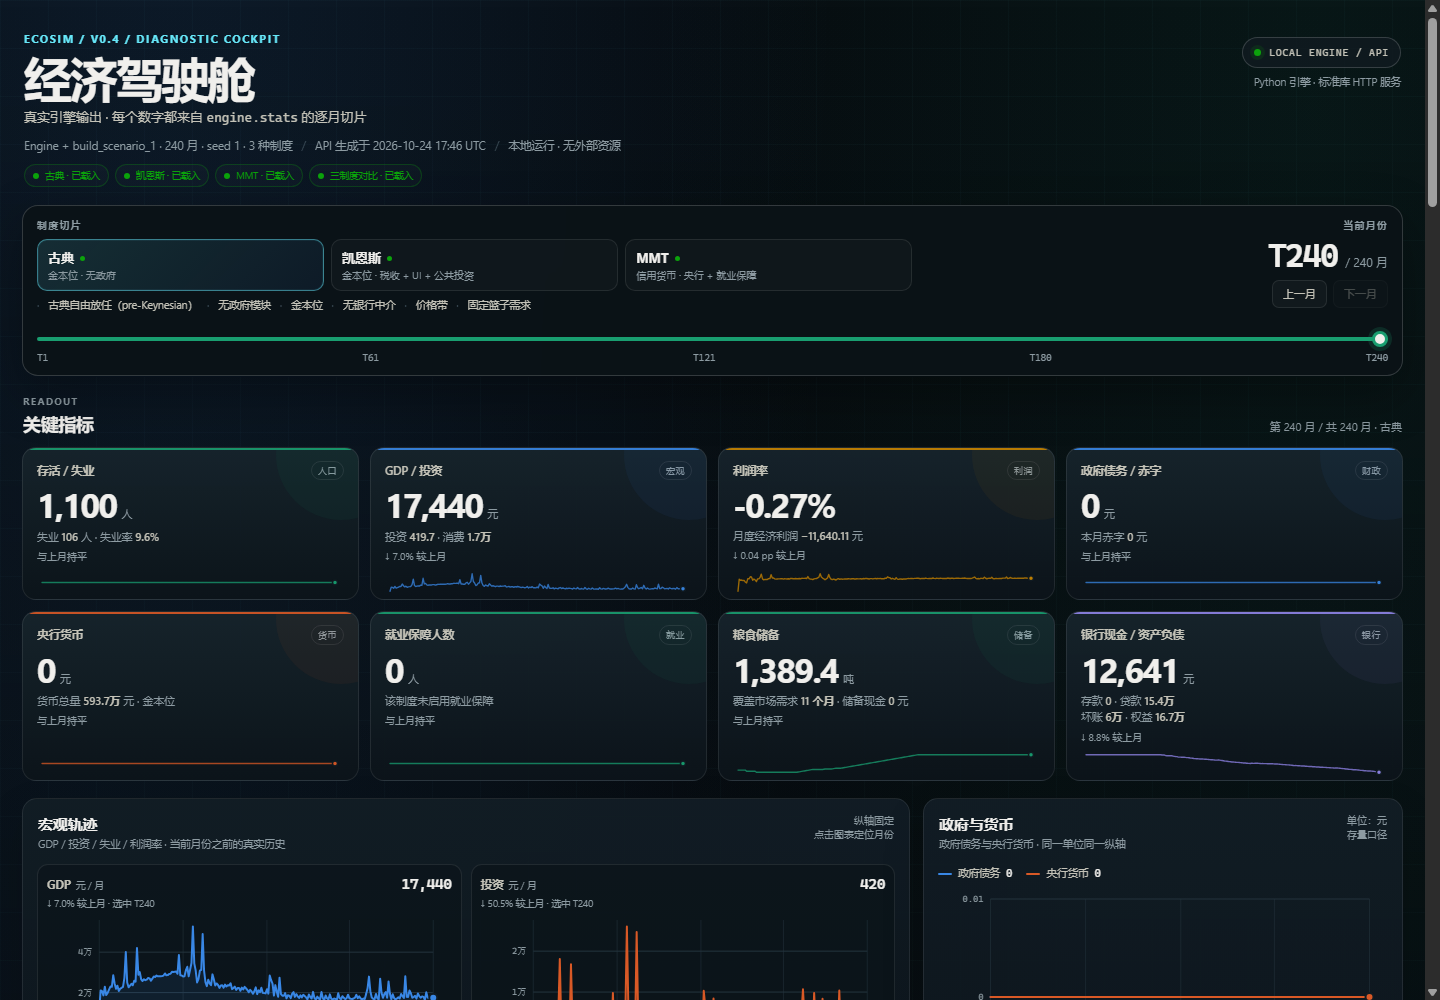
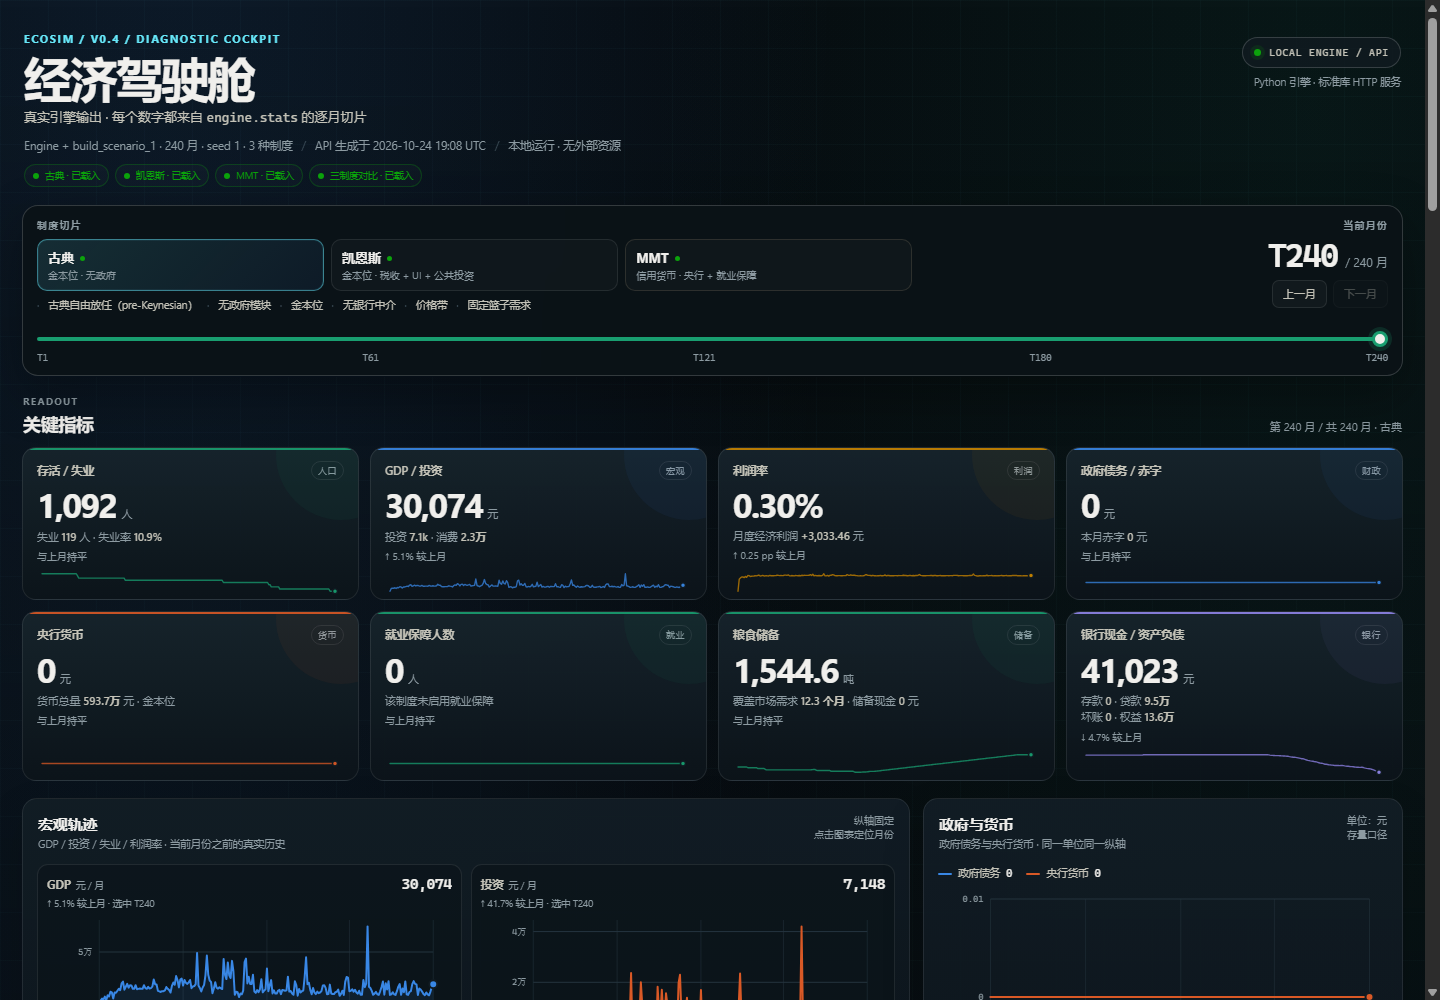
feat: V0.4.2 利润率修正与驾驶舱更新
- 计划分母改用熟练度调整后的有效产能，修复过度生产/负利润率
- 服务自雇工资/payout 重复计入修复；利润率改为资本主义部门口径
- 240 月：古典利润率 +0.30%，Keynesian -0.01%，MMT +0.01%
- 驾驶舱显示 all_profit_rate/household_profit 等诊断字段与最终截图
- 版本 0.4.2

diff --git a/scripts/serve_dashboard.py b/scripts/serve_dashboard.py
@@ -44,7 +44,7 @@ from ecosim.scenarios import (  # noqa: E402
     build_scenario_1,
 )
 
-DASHBOARD_VERSION = "0.4.0"
+DASHBOARD_VERSION = "0.4.2"
 DEFAULT_MONTHS = 240
 DEFAULT_SEED = 1
 MAX_MONTHS = 1200
@@ -108,6 +108,11 @@ SCALAR_FIELDS = (
     "consumption",
     "investment",
     "profit_rate",
+    "all_profit_rate",
+    "capitalist_profit",
+    "household_profit",
+    "capitalist_capital_stock",
+    "household_capital",
     "capital_stock",
     "food_reserve",
     "food_reserve_cash",

diff --git a/src/ecosim/__init__.py b/src/ecosim/__init__.py
@@ -1,3 +1,3 @@
 """资本主义经济模拟仿真包。"""
 
-__version__ = "0.4.0"
+__version__ = "0.4.2"

diff --git a/docs/HANDOFF.md b/docs/HANDOFF.md
@@ -8,8 +8,8 @@
 ## 当前基线
 
 - 分支：`v0.4-integration`
-- 最新提交：`93205ff`（服务业 + 验证套件 + 化肥修复 + 软 markup + 驾驶舱 + 信贷诊断）
-- Python 版本：0.4.0
+- 最新提交：`d2ffbcb`（计划/熟练度单位修复，负利润率修正）+ 文档
+- Python 版本：0.4.0（工作区 V0.4.2）
 - 测试：65 个全绿（33 原有 + 10 不变量 + 7 服务业 + 5 化肥 + 10 软 markup）
 - UI：`python scripts/serve_dashboard.py --port 8765` → `http://127.0.0.1:8765`
 - 已实现：会计修正、L1 生产—库存—订单、L3 投资/手工 t0/替换投资、
@@ -18,31 +18,39 @@
 
 ## 当前 240 月结果（seed=1）
 
-| 制度 | 存活 | 失业率 | GDP | 投资 | 利润率 | 债务 | 央行货币 | 服务业企业 | 化肥首次 |
+| 制度 | 存活 | 死亡 | 失业率 | GDP | 投资 | 利润率 | 债务 | 央行货币 | 服务业企业 |
 |---|---:|---:|---:|---:|---:|---:|---:|---:|---:|
-| classical | 1100 | 9.6% | 17,440 | 420 | -0.27% | 0 | 0 | 338 | T20 |
-| keynesian | 1100 | 4.6% | 29,908 | 0 | -0.44% | 3,970 | 0 | 311 | T18 |
-| mmt | 1100 | 0.0% | 28,915 | 240 | -0.44% | 887,518 | 887,518 | 249 | T18 |
+| classical | 1092 | 8 | 10.9% | 30,074 | 7,148 | +0.30% | 0 | 0 | 426 |
+| keynesian | 1100 | 0 | 0.0% | 33,058 | 2,143 | -0.01% | 399,479 | 0 | 472 |
+| mmt | 1100 | 0 | 0.0% | 35,014 | 1,126 | +0.01% | 2,720,346 | 2,720,346 | 281 |
 
-三制度 240 月均 0 死亡；核心行业零产出月数 0–5；化肥投产后连续供应。
+核心行业（钢/砖/纺织/机械）零产出 0 个月；建筑零产出 19/11/8 个月。
+利润率是**资本主义部门**口径；`all_profit_rate` 仍受 household/自雇影响，
+见 stats 的 `all_profit_rate`/`household_profit`。
 
 ## 下一步优先级
 
-1. **UI（已完成）**：本地前后端分离驾驶舱已合并；后续可按用户反馈加图表/钻取。
-2. **服务业（已完成）**：古典失业 43%→9.6%，Keynesian 16.9%→4.6%；下一步校准
-   服务价格路径和自雇进入/退出。
-3. **信贷冲击死亡链（新的最高优先）**：`docs/CREDIT_SHOCK_DIAGNOSIS.md` 已定位：
-   粮食市场几乎完全出清（未成交 0.02–0.05 吨），但零现金工人数量≈饥饿人数；
-   信贷冻结→企业工资账单无法融资→按比例欠薪→部分工人 0 现金买不起食品。
-   下一步：最后贷款人/贴现窗口、wage_arrears 显性化、食品券/定向分配、
-   银行冻结规则校准；这些比继续调农业产能更关键。
-4. **L2 价格（已有可选版）**：`price_regime="markup_soft"` 已合并（参考价锚定
-   ±15% 软走廊 + 库存 markup），默认仍是 band；240 月古典 GDP 17,440→25,136、
-   利润率 -0.27%→-0.08%，但资本存量低约 14%。自由 markup/LES 仍是实验分支。
-5. **化肥物流（已完成）**：首次使用 T18/T20，投产后连续供应；65 测试。
-6. **验证套件（已刷新）**：冲击/不变量脚本已合并；下一步 20–100 seeds、
-   冲击起点集成、服务业加入后的完整冲击矩阵。
-7. **HTML 单文件发行版**：本地驾驶舱已可用；单文件发行版仍需同步 V0.4。
+1. **利润率修正（已完成）**：计划分母改用熟练度调整后的有效产能，利润率
+   -0.27%/-0.44%/-0.44% → +0.30%/-0.01%/+0.01%；服务自雇工资/经营所得重复
+   计入已修；利润率改为资本主义部门口径。
+2. **UI（已完成）**：本地前后端分离驾驶舱已合并；截图见
+   `web/screenshots/v04-cockpit-240.png`。
+3. **服务业（已完成）**：古典失业 43%→10.9%（利润率修正后），Keynesian/MMT 0%；
+   下一步校准服务价格路径和自雇进入/退出。
+4. **库存/建筑/古典死亡（下一轮）**：铁/机械/砖仍有 30–500 个月需求库存，
+   建筑零产出 8–19 个月，古典 240 月 8 例死亡；需要库存消化速度、建筑需求
+   与底层流动性/食品券。
+5. **信贷冲击死亡链（最高优先）**：`docs/CREDIT_SHOCK_DIAGNOSIS.md` 已定位：
+   粮食市场出清，但零现金工人≈饥饿人数；信贷冻结→工资账单无法融资→欠薪→
+   买不起食品。下一步：最后贷款人/贴现窗口、wage_arrears、食品券、
+   银行冻结规则校准。
+6. **人口/代际/退休金/百年仿真（用户新需求，待设计）**：人口结构、出生率、
+   再生产成本、退休年龄、养老金/供养比；1200 月（100 年）仿真；各时代剧本。
+7. **L2 价格（已有可选版）**：`price_regime="markup_soft"` 已合并，默认 band；
+   自由 markup/LES 仍是实验分支。
+8. **验证套件（已刷新）**：冲击/不变量脚本已合并；下一步 20–100 seeds、
+   服务业/利润率修正后的完整冲击矩阵。
+9. **HTML 单文件发行版**：本地驾驶舱已可用；单文件发行版仍需同步 V0.4。
 
 ## 并行版本树（进行中）
 

diff --git a/03_架构设计文档.md b/03_架构设计文档.md
@@ -684,14 +684,19 @@ LLM 经理不是默认路径；默认仿真必须保持确定性、离线、无 
 对每个企业：
 
 ```
-capacity = capacity_at_skill_one(enterprise)
-share = capacity / Σ_industry capacity
+effective_capacity = capacity_at_skill_one(enterprise) × max(1, average_skill)
+share = effective_capacity / Σ_industry effective_capacity
 observed = (market.demand + market.unmet) × share
 Dhat = 0.7 × Dhat + 0.3 × observed
 target = target_inventory_months × Dhat
 desired = Dhat + max(0, target − inventory) / 6
-plan = clip(desired / capacity, 0, 1)
+plan = clip(desired / effective_capacity, 0, 1)
 ```
+
+> 计划分母必须用“熟练度调整后的有效产能”。V0.4.2 之前用 skill=1 产能做分母，
+> 而 `produce()` 又乘熟练度 2.0，导致实际产出是目标需求的 2 倍；煤/铁/钢库存
+> 累积到 100–7,000 个月需求，工资/折旧照付、收入卖不出去，利润率被压成负数。
+> 修正后 240 月资本主义部门利润率为 +0.30% / -0.01% / +0.01%（古典/Keynesian/MMT）。
 
 - 工业 `target_inventory_months=2`，农业=6；
 - 中间投入/资本品（煤、铁、钢、砖、机械、建筑、化肥）最低运行率 0.1；
@@ -726,6 +731,12 @@ plan = clip(desired / capacity, 0, 1)
 - 死亡自耕农：`_settle_estate` 清理土地/家庭农场，土地进 `estate_land`。
 - GDP = 消费 + 投资 + 政府支出；货币审计包含政府现金和粮食储备现金
   （MMT 信用货币模式除外，见 18.8）。
+- **利润率口径**：`profit_rate` 只统计非 household 的资本主义企业
+  （利润/（设备+土地+库存））；家庭农场/服务自雇的所有者劳动收入不是资本回报，
+  另报 `household_profit`/`household_capital`；`all_profit_rate` 保留全额口径。
+- **服务自雇**：`is_household=True` 的服务摊主不再领工资（`_labor_market` 跳过），
+  经营现金通过 `_finance` 的 payout 成为家庭收入；避免“工资 + payout”重复计入。
+- **生产计划**：见 18.3 的 `effective_capacity`；这是 V0.4.2 修复负利润率的核心。
 
 ### 18.6 劳动市场（L5）
 
@@ -824,7 +835,9 @@ plan = clip(desired / capacity, 0, 1)
 - `markup_soft` 是可选的参考价锚定软加成；自由 `markup`/LES 仍是实验分支，
   默认仍是固定篮子/价格带。
 - 化肥首次使用约 T18/T20，投产后连续供应；服务价格波动仍需校准。
-- 投资/利润频率仍偏低；长期接近零利润稳态。
+- 资本主义部门利润率已转正/接近零（+0.30%/-0.01%/+0.01%），但铁/机械/砖
+  仍有 30–500 个月需求的库存积压；建筑有 8–19 个零产出月，古典 240 月有 8 例死亡。
+  下一轮应处理库存消化速度、建筑需求和古典底层流动性。
 - MMT 首版央行与财政部合并记账，没有完整国债市场/准备金/银行资本。
 - 没有出口/进口/完整 SFC/消费税/财富税。
 - `web/engine-preview.html` 仍是 V0.3.2 引擎的忠实移植，尚未同步 V0.4；
@@ -847,11 +860,12 @@ plan = clip(desired / capacity, 0, 1)
 
 240 月 seed=1 结果（含服务 + 验证套件）：
 
-| 制度 | 存活 | 失业率 | GDP | 服务业企业 | 化肥首次 |
+| 制度 | 存活 | 失业率 | GDP | 利润率 | 服务业企业 |
 |---|---:|---:|---:|---:|---:|
-| classical | 1100 | 9.6% | 17,440 | 338 | T20 |
-| keynesian | 1100 | 4.6% | 29,908 | 311 | T18 |
-| mmt | 1100 | 0.0% | 28,915 | 249 | T18 |
+| classical | 1092 | 10.9% | 30,074 | +0.30% | 426 |
+| keynesian | 1100 | 0.0% | 33,058 | -0.01% | 472 |
+| mmt | 1100 | 0.0% | 35,014 | +0.01% | 281 |
 
-三制度均 0 死亡；核心行业零产出月数为 0–5；化肥投产后连续供应。
-服务价格路径仍有波动，后续需要价格/进入校准。
+核心行业（钢/砖/纺织/机械）零产出 0 个月；建筑零产出 19/11/8 个月
+（<10% 的 240 月，但仍是下一轮要压的尾部）。古典 8 例死亡，Keynesian/MMT 0；
+化肥投产后连续供应。服务价格路径仍有波动，后续需要价格/进入校准。

diff --git a/04_开发日志文档.md b/04_开发日志文档.md
@@ -101,3 +101,19 @@ UI 原型补齐。
 - 测试 65 个通过（33 原有 + 10 不变量 + 7 服务 + 5 化肥 + 10 软 markup）。
 - 已知限制：服务业价格波动较大；L2 markup/LES 仍实验；
   投资/利润频率偏低；单文件 HTML 发行版尚未同步。
+
+##BETA V0.4.2 — 2026-10-25
+负利润率与过度生产修复。
+- **根因**：`_update_expectations_and_plans` 用 skill=1 产能做计划分母，而
+  `produce()` 又乘熟练度 2.0，实际产出约为目标需求的 2 倍；煤/铁/钢库存
+  累积到 100–7,000 个月需求，工资/折旧照付、收入卖不出去。
+- 计划分母改为 `capacity_at_skill_one × 平均熟练度`；必需品固定 0.1 下限
+  改为需求感知：库存 >12 月需求时只保留 2% 涓流，否则最低 0.9×当前需求。
+- 服务自雇不再领工资（避免与经营 payout 重复计入）；利润率改为
+  非 household 资本主义企业口径，新增 `all_profit_rate`/`household_profit`/
+  `capitalist_capital_stock`。
+- 240 月 seed=1：古典存活 1092、死亡 8、失业 10.9%、GDP 30,074、投资 7,148、
+  利润率 +0.30%；Keynesian 1100/0/0%、33,058/2,143、-0.01%；
+  MMT 1100/0/0%、35,014/1,126、+0.01%。65 测试通过。
+- 已知限制：铁/机械/砖仍有 30–500 个月需求库存；建筑零产出 8–19 个月；
+  古典 8 例死亡；下一轮处理库存消化、建筑需求和底层流动性。

diff --git a/docs/VERSION_TREE.md b/docs/VERSION_TREE.md
@@ -22,6 +22,7 @@
 | `ac48286` | V0.4.1 驾驶舱最终截图（服务业+化肥） |
 | `40e4f68` | V0.4.1 快速冲击验证归档 |
 | `93205ff` | 信贷冲击死亡链诊断（食品市场出清但零现金工人买不起） |
+| `d2ffbcb` | 计划/熟练度单位修复 + 利润率资本主义部门口径（cherry-pick 自 `feature/plan-skill`，65 tests） |
 
 ## Feature 分支
 
@@ -32,6 +33,7 @@
 | `feature/services` | `79d27de` | 已合并 | 服务业/非正规自雇，古典失业 43%→9.3% |
 | `feature/l2` | `62f3217` | 暂停 | 自由 markup/LES 诊断脚本 WIP |
 | `feature/l2-soft` | `7c97df0` | 已合并 | 参考价锚定的软 markup（成本加成 + ±15% 走廊，主线 `ed4549a`） |
+| `feature/plan-skill` | `ed231e1` | 已合并 | 计划按熟练度调整产能、负利润率修正（主线 `d2ffbcb`） |
 | `feature/fertilizer` | `61fae0e` | 已合并 | 化肥周转资金/招聘优先/2 台上限（主线 `f3d4248`） |
 | `feature/validation` | `1891485` | 已合并 | 冲击测试、不变量、验证报告（主线 `0f3888c`） |
 

diff --git a/docs/CREDIT_SHOCK_DIAGNOSIS.md b/docs/CREDIT_SHOCK_DIAGNOSIS.md
@@ -1,5 +1,10 @@
 # 信贷冲击死亡诊断（V0.4.1）
 
+> **V0.4.2 注**：本诊断生成于“计划按熟练度调整产能”修复之前。该修复改变了
+> 生产/库存/现金流，信贷冲击死亡数可能变化；下一轮应在 V0.4.2 主线重跑
+> `scripts/diagnose_credit_shock.py`，本文件的机制判断（食品市场出清、零现金
+> 工人买不起）仍可作为调查方向。
+>
 > 只读诊断：复现 `scripts/validate_v04.py` 的信贷冲击，逐月记录食品市场、现金分布、
 > 饥饿与死亡。脚本：`scripts/diagnose_credit_shock.py`。
 > 关联：[[VALIDATION_V0.4.1_FAST.md]]、[[VALIDATION_V0.4.1_FAST_REPORT.md]]。

diff --git a/README.md b/README.md
@@ -5,7 +5,7 @@
 
 长期目标是用 LLM 扮演经理和董事；当前里程碑是先把规则驱动的经济内核做扎实。
 
-> 状态：**V0.4 — 负反馈修复、历史阶段与本地驾驶舱；单文件 HTML 发行版尚未同步。**
+> 状态：**V0.4.2 — 负反馈修复、利润率修正、历史阶段与本地驾驶舱；单文件 HTML 发行版尚未同步。**
 > 引擎可运行、固定随机种子可复现，并有 65 个回归测试。新增古典/Keynesian/MMT
 > 三种政策制度、生产—库存闭环、需求约束投资、劳动市场修正、粮食平准库存、
 > 服务业/非正规自雇，以及前后端分离的本地驾驶舱。

diff --git a/docs/VALIDATION_V0.4.1_FAST.md b/docs/VALIDATION_V0.4.1_FAST.md
@@ -1,5 +1,8 @@
 # V0.4.1 快速冲击验证（1 seed，当前主线）
 
+> **V0.4.2 注**：本报告生成于“计划按熟练度调整产能”修复之前。修复后利润率、
+> 库存和投资已变化；冲击的绝对数值需在 V0.4.2 主线重跑，方向性结论仍可参考。
+>
 > 运行：`PYTHONPATH=src python scripts/validate_v04.py --fast --no-placebo --no-series-in-json`
 > 时间：2026-10-25 01:55；月数 240；seed=1；冲击起点 T120、持续 12 月。
 > 完整自动报告：[[VALIDATION_V0.4.1_FAST_REPORT.md]]；摘要 CSV：
